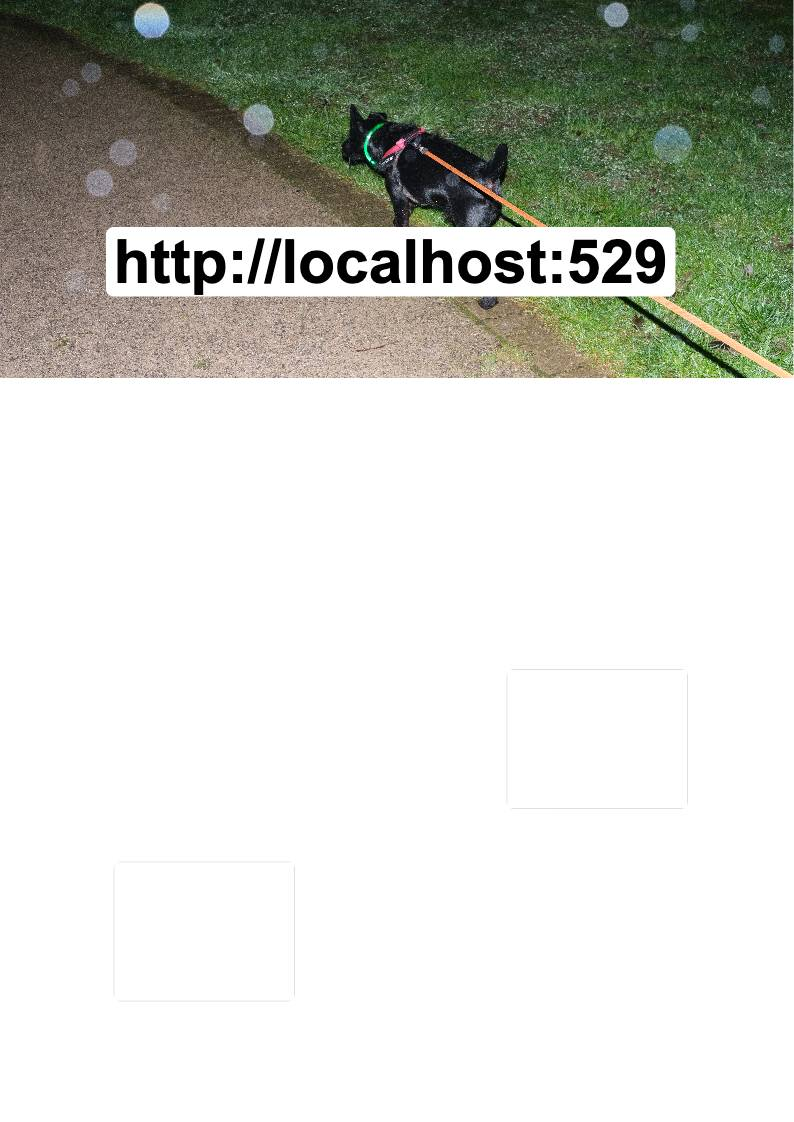
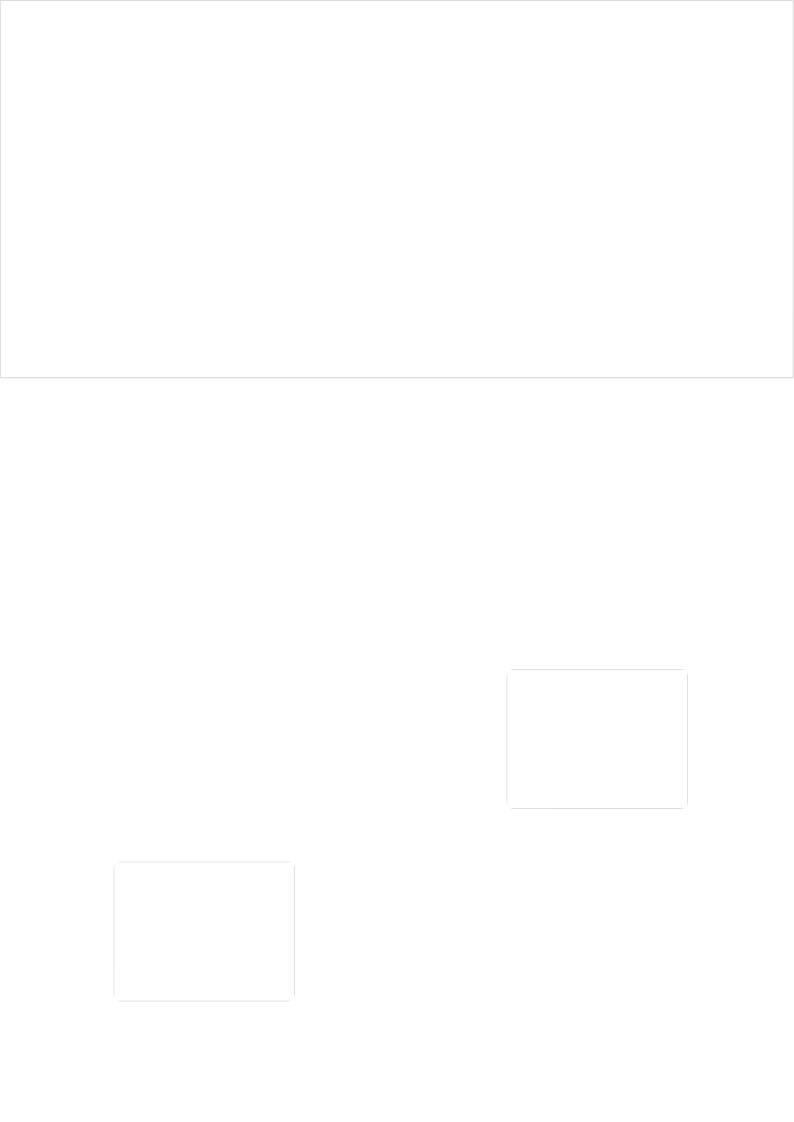
-added modal view for

diff --git a/PosterCMS/wwwroot/css/style.css b/PosterCMS/wwwroot/css/style.css
@@ -46,7 +46,7 @@ nav a:hover {
 }
 
 main {
-    margin: 16px 10%;
+    margin: 16px 5% 16px 10%;
 }
 
 main>h1 {
@@ -161,7 +161,7 @@ form input[type="submit"]:hover,
         "img text";
     grid-template-columns: auto 1fr;
     grid-template-rows: auto 1fr;
-    margin: 0px 0px 16px 0px
+    margin: 0px 0px 16px 0px;
 }
 
 .poster article img {
@@ -195,6 +195,7 @@ form input[type="submit"]:hover,
 .poster-grid {
     display: flex;
     flex-wrap: wrap;
+    gap: 24px;
     margin: 0px;
 }
 
@@ -205,7 +206,7 @@ form input[type="submit"]:hover,
     border-radius: 8px;
     box-shadow: 0 4px 10px rgba(0, 0, 0, 0.1);
     padding: 12px 12px;
-    margin: 0px 24px 24px 0px;
+    /*margin: 0px 24px 24px 0px;*/
     transition: 0.3s ease;
     width: 224px;
 }
@@ -249,6 +250,11 @@ form input[type="submit"]:hover,
 }
 
 
+.image-grid.poster-grid article {
+    margin-top: 0px;
+    padding-top: 4px;
+}
+
 .image-grid .poster-preview>img {
     border-radius: 4px;
     grid-row: span 1;
@@ -258,7 +264,7 @@ form input[type="submit"]:hover,
     object-fit: cover;
     overflow: hidden;
     align-self: start;
-    margin: 0px 0px 8px;
+    margin-bottom: 8px;
 }
 
 .image-grid.poster-grid article .rm-img-btn {
@@ -268,8 +274,8 @@ form input[type="submit"]:hover,
     top: -10px;
     right: -10px;
     z-index: 20;
-    height:25px;
-    width:25px;
+    height: 25px;
+    width: 25px;
     object-fit: contain;
     justify-self: right;
     padding: 2px;
@@ -304,7 +310,7 @@ form input[type="submit"]:hover,
     flex-flow: row;
     grid-row: span 1;
     grid-column: span 1;
-    height:18px;
+    height: 18px;
     justify-self: right;
     align-items: center;
     padding: 4px 8px;
@@ -317,11 +323,54 @@ form input[type="submit"]:hover,
 }
 
 .image-grid.poster-grid article .cpy-btn-svg {
-    height:16px;
+    height: 16px;
     width: 16px;
     object-fit: contain;
 }
 
 .image-grid.poster-grid article .cpy-btn:hover {
     background-color: rgb(118, 233, 243);
+}
+
+
+.custom-modal {
+    display: none;
+    position: fixed;
+    z-index: 9999;
+    left: 0; top: 0;
+    width: 100%; height: 100%;
+    background-color: rgba(0, 0, 0, 0.5);
+}
+
+.modal-content {
+    position: relative;
+    width: 80%;
+    height: 80%;
+    margin: 5% auto;
+    background: #fff;
+    border-radius: 8px;
+    display: flex;
+    flex-direction: column;
+    overflow: hidden;
+}
+
+.modal-header {
+    padding: 10px;
+    background-color: rgb(68, 227, 241);
+    /*background-color: #f0f0f0;*/
+    /*border-bottom: 1px solid #ccc;*/
+    display: flex;
+    justify-content: right;
+    align-items: center;
+}
+
+.close-btn {
+    cursor: pointer;
+    font-size: 24px;
+}
+
+.iframe-content {
+    flex: 1;
+    width: 100%;
+    border: none;
 }

diff --git a/PosterCMS/Controllers/HomeController.cs b/PosterCMS/Controllers/HomeController.cs
@@ -65,7 +65,7 @@ public class HomeController : Controller
             ViewBag.Message = "No file selected.";
         }
 
-        return View("ImageUploader");
+        return RedirectToAction("ViewImages");
     }
 
     [HttpGet]
